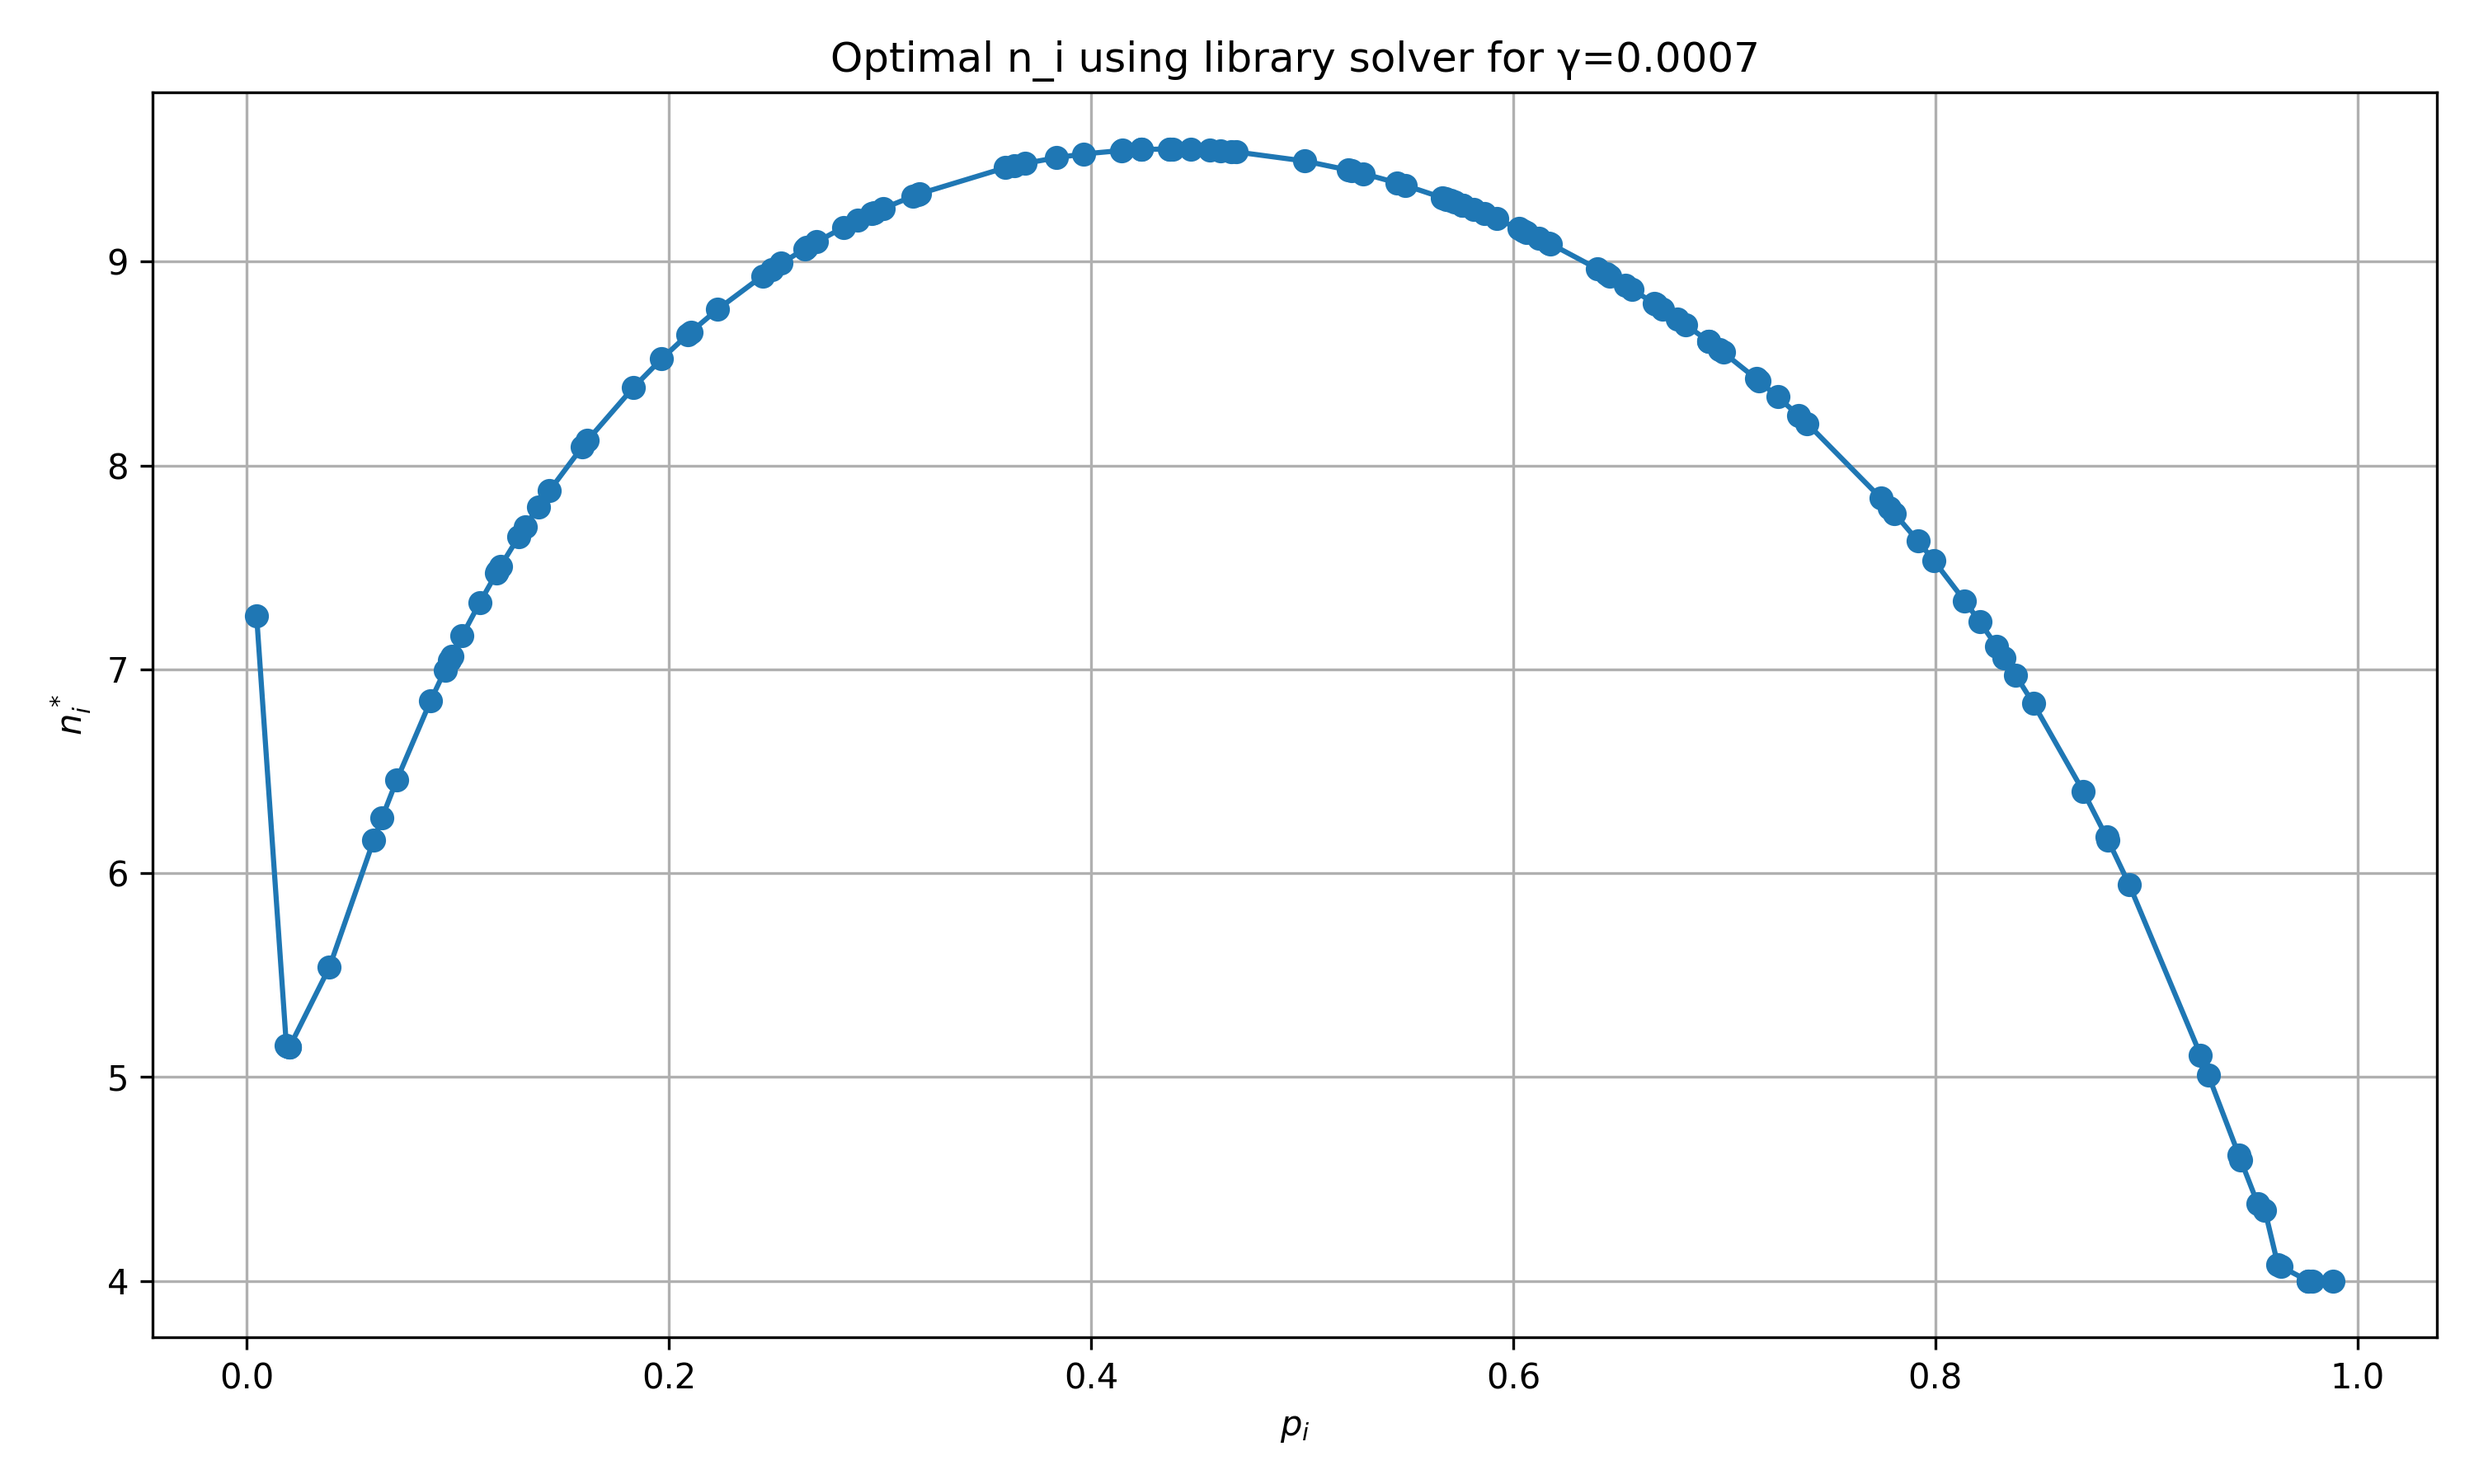
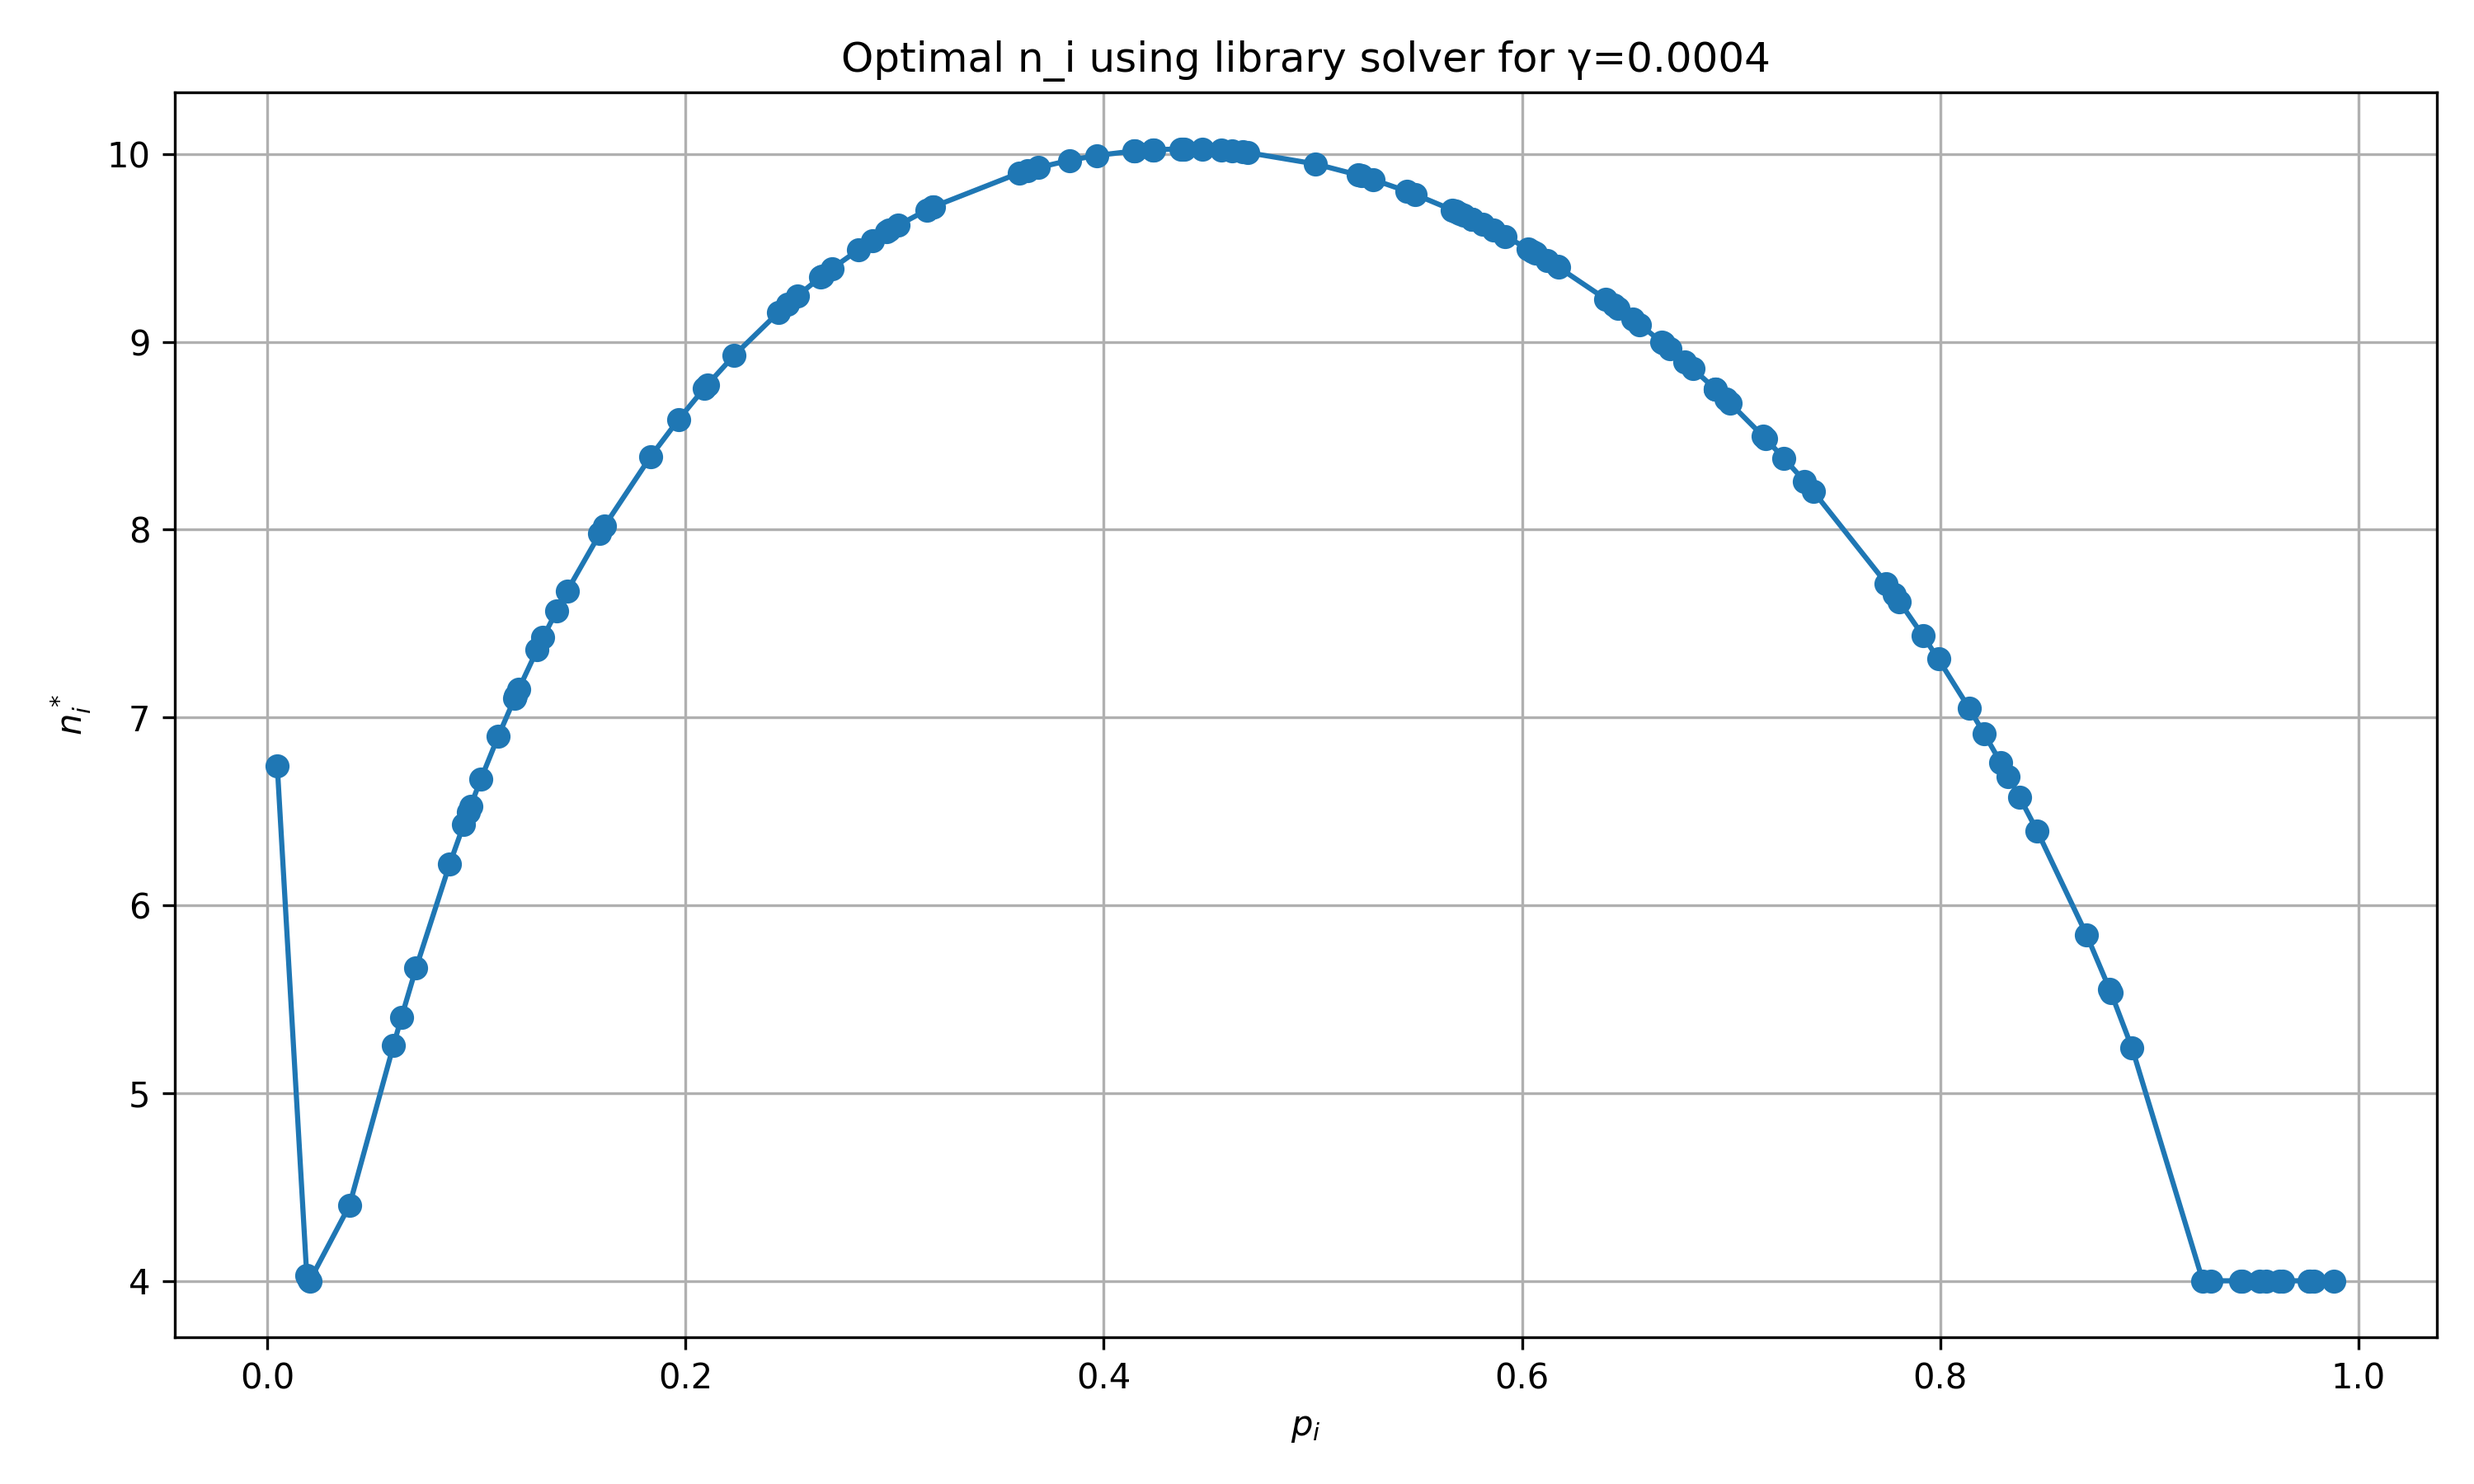
update code

diff --git a/gaussian_allocation/cores/allocation_v1.py b/gaussian_allocation/cores/allocation_v1.py
@@ -85,32 +85,36 @@ def calculate_a(p):
     return new_p * (1 - new_p)
 
 
-def allocate_rollout(question_accs, batch_budget, upper=32):
-    a_list = [float(calculate_a(acc)) for acc in question_accs]
-    lmbda = search_for_lmbda(a_list, batch_budget, upper=upper, lower_lmbda=-100, upper_lmbda=100)
-    allocated_budgets = [n_star(a_i, lmbda, upper=upper) for a_i in a_list]
-    rounded_allocated_budgets = allocation_rounding(allocated_budgets, a_list, batch_budget, upper=upper)
-    return rounded_allocated_budgets
+# def allocate_rollout(question_accs, batch_budget, upper=32):
+#     a_list = [float(calculate_a(acc)) for acc in question_accs]
+#     lmbda = search_for_lmbda(a_list, batch_budget, upper=upper, lower_lmbda=-100, upper_lmbda=100)
+#     allocated_budgets = [n_star(a_i, lmbda, upper=upper) for a_i in a_list]
+#     rounded_allocated_budgets = allocation_rounding(allocated_budgets, a_list, batch_budget, upper=upper)
+#     return rounded_allocated_budgets
 
 
 def calculate_a(p):
     new_p = np.clip(p, 1e-6, 1-1e-6)
     return new_p * (1 - new_p)
 
-def solve_rloo(a, question_accs, batch_budget, lower=4, upper=32, allocation_rule="vip"):
-    # gamma = 0
-    gamma = 0.0007
-    b = gamma * np.log(question_accs)
-    
+def solve(a, question_accs, batch_budget, lower=4, upper=32, allocation_rule="rloo"):
     def V_rloo(n):
         return np.sum(a / (n - 1) + b * n)
+    def V_grpo(n):
+        return np.sum( (a * (n-1) / n**2) + b * n)
     def V_inverse_acc(n):
         return np.sum(n*np.log(question_accs))
     def V_inverse_var(n):
         return np.sum(n*np.log(a))
     
-    if allocation_rule == "vip":
+    if allocation_rule == "rloo":
+        gamma = 0.0007
+        b = gamma * np.log(question_accs)
         V_func = V_rloo
+    elif allocation_rule == "grpo":
+        gamma = 0.0004
+        b = gamma * np.log(p)
+        V_func = V_grpo
     elif allocation_rule == "inverse_acc":
         V_func = V_inverse_acc
     elif allocation_rule == "inverse_var":
@@ -127,18 +131,18 @@ def solve_rloo(a, question_accs, batch_budget, lower=4, upper=32, allocation_rul
     return n_vec
 
 
-def allocate_rollout_rloo(question_accs, batch_budget, lower=4, upper=32, allocation_rule="vip"):
+def allocate_rollout(question_accs, batch_budget, lower=4, upper=32, allocation_rule="rloo"):
     # a_list = [float(calculate_a(acc)) for acc in question_accs]
     # lmbda = search_for_lmbda(a_list, batch_budget, upper=upper, lower_lmbda=-100, upper_lmbda=100)
     # allocated_budgets = [n_star(a_i, lmbda, upper=upper) for a_i in a_list]
     question_accs = np.clip(question_accs, 1e-6, 1-1e-6)
     a = question_accs * (1 - question_accs)
-    allocated_budgets = solve_rloo(a, 
-                                   question_accs, 
-                                   batch_budget, 
-                                   lower=lower, 
-                                   upper=upper, 
-                                   allocation_rule=allocation_rule)
+    allocated_budgets = solve(a, 
+                            question_accs, 
+                            batch_budget, 
+                            lower=lower, 
+                            upper=upper, 
+                            allocation_rule=allocation_rule)
     rounded_allocated_budgets = allocation_rounding(allocated_budgets, a, batch_budget, upper=upper)
     return rounded_allocated_budgets
 
@@ -169,7 +173,7 @@ if "__main__" == __name__:
         indices_train = out["train"]["indices"]
         indices_test = out["test"]["indices"]
 
-        rounded_n = allocate_rollout_rloo(y_train, batch_budget=256*16, upper=32)
+        rounded_n = allocate_rollout(y_train, batch_budget=256*16, upper=32)
         unique_list = []
         for p, n in zip(y_train, rounded_n):
             if (p, n) not in unique_list:

diff --git a/gaussian_allocation/gaussian_allocation_ray_trainer.py b/gaussian_allocation/gaussian_allocation_ray_trainer.py
@@ -46,7 +46,7 @@ from verl.trainer.ppo.ray_trainer import (
 )
 from verl.utils.profiler import marked_timer
 from verl.utils.rollout_skip import RolloutSkip
-from gaussian_allocation.cores.allocation_v1 import allocate_rollout, allocate_rollout_rloo
+from gaussian_allocation.cores.allocation_v1 import allocate_rollout
 from gaussian_allocation.cores.model_v2 import SequentialGPR
 
 
@@ -118,6 +118,7 @@ class RayDAPOTrainer(RayPPOTrainer):
         self.gpr_dataset = getattr(self.config.algorithm, 'gpr_dataset', os.getenv('GBR_DATASET', 'fixprompt-dapo-math-17k_17398'))
         self.gpr_data_root = getattr(self.config.algorithm, 'gpr_data_root', os.getenv('GBR_DATA_ROOT', '/home/hieunt/verl/data/embedding_data'))
         self.allocation_rule = getattr(self.config.algorithm, 'allocation_rule', 'rloo')
+        self.adv_estimator = getattr(self.config.algorithm, 'adv_estimator', 'rloo')
         self._gpr_pairwise = None
         self._gpr_qid_to_idx = None
         self._gpr_ready = False
@@ -560,17 +561,12 @@ class RayDAPOTrainer(RayPPOTrainer):
         rollout_n = int(self.config.actor_rollout_ref.rollout.n)
         batch_budget = batch_size * rollout_n
         
-        if self.config.algorithm.adv_estimator == AdvantageEstimator.RLOO:
-            allocated = allocate_rollout_rloo(np.round(mean_pred, 5).tolist(), 
-                                        batch_budget=batch_budget,
-                                        lower=4 if self.config.actor_rollout_ref.rollout.n > 4 else 0,
-                                        upper=self.gpr_upper,
-                                        allocation_rule=self.allocation_rule)
-        else:
-            allocated = allocate_rollout(np.round(mean_pred, 5).tolist(), 
-                                        batch_budget=batch_budget, 
-                                        upper=self.gpr_upper)
-            
+
+        allocated = allocate_rollout(np.round(mean_pred, 5).tolist(), 
+                                    batch_budget=batch_budget,
+                                    lower=4 if self.config.actor_rollout_ref.rollout.n > 4 else 0,
+                                    upper=self.gpr_upper,
+                                    allocation_rule=self.allocation_rule)
         print(allocated)
         # Map back to full question_uuids list (use 0 for those not in kept_current)
         repeat_times: dict = {}
